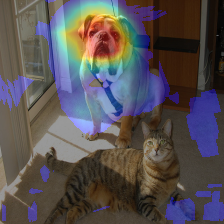
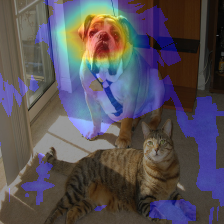
added explanatory comments to lib_aug_gradcam.py and adjusted parameters to reproduce the images

diff --git a/lib_aug_gradcam.py b/lib_aug_gradcam.py
@@ -12,7 +12,7 @@ sess = tf.InteractiveSession(graph=tf.Graph())
 
 
 def get_competition_dict():
-    file_path = "ILSVRC2015_devkit/data/map_clsloc.txt"
+    file_path = "dicts/map_clsloc.txt"
     d = dict()
     with open(file_path, 'r') as file:
         for i_line, line in enumerate(file.readlines()):
@@ -26,7 +26,7 @@ def get_competition_dict():
 
 
 def get_vgg_dict():
-    file_path = "synset.txt"
+    file_path = "dicts/synset.txt"
     d = dict()
     with open(file_path, 'r') as file:
         for i_line, line in enumerate(file.readlines()):
@@ -48,6 +48,15 @@ def resize_img(img, target_imsz=(224, 224), order=1):
 
 
 def crop_and_resize_img(img, target_imsz=(224, 224)):
+    """ Crop and resize `img` to match `target_imsz`.
+
+    Images are cropped to be square images.
+
+    :param img: the input image
+    :param target_imsz: the target image size
+    :return img: the resized image
+    :return crop: the applied crop
+    """
     img_new = img
     if len(img.shape) == 2:
         img_new = img_new[:, :, np.newaxis]
@@ -113,6 +122,12 @@ def pad_and_resize_cam(cam, target_imsz, crop, order, mode="zero"):
 
 
 def get_rectangle(bbox, color='r'):
+    """ Get a rectangle patch from `bbox` for plotting purposes.
+
+    :param bbox: input bounding box
+    :param color: rectangle color
+    :return rect: a colored rectangle patch
+    """
     # Create a Rectangle patch
     (xmin, xmax, ymin, ymax) = bbox
     rect = patches.Rectangle((xmin, ymin), xmax - xmin, ymax - ymin, linewidth=2, edgecolor=color, facecolor="none")
@@ -124,6 +139,11 @@ def order_bbox_from_sk(bbox):
 
 
 def get_bbox_from_gt(gt_root):
+    """ Get the all the supervised bounding boxes (ground truth) having `gt_root` as root folder.
+
+    :param gt_root: root folder for the ground truth bounding boxes
+    :return all_objs: all supervised bounding boxes
+    """
     all_objs = dict()
 
     all_objs_elem = gt_root.findall("./object")
@@ -145,6 +165,14 @@ def get_bbox_from_gt(gt_root):
 
 
 def get_bbox_from_cam(cam_full, thresh_rel=0.15):
+    """ Compute the bounding box from `cam_full` according to `thresh_rel`.
+
+    Fit a box around `cam_full` where its values are greater than the 15% of its maximum.
+
+    :param cam_full: the input CAM
+    :param thresh_rel: the threshold values (same as in https://arxiv.org/abs/1610.02391)
+    :return: the bounding box for `cam_full`
+    """
     thresh = thresh_rel * np.max(cam_full)
     mask = cam_full > thresh
 
@@ -163,6 +191,12 @@ def get_bbox_from_cam(cam_full, thresh_rel=0.15):
     return order_bbox_from_sk(bbox)
 
 def bb_intersection_over_union(boxA, boxB):
+    """ Compute the intersection over union (IOU) metrics between two bounding boxes.
+
+    :param boxA: bounding box 1
+    :param boxB: bounding box 2
+    :return iou: the intersection over union of `boxA` and `boxB`
+    """
     # determine the (x, y)-coordinates of the intersection rectangle
     xA = max(boxA[0], boxB[0])
     yA = max(boxA[2], boxB[2])
@@ -211,8 +245,8 @@ class GradCamModel:
             tns_input = None
             ValueError("Model {} not supported".format(model_name))
 
+        # input index for the target class
         tns_index = tf.placeholder("int32", [None])
-        # input index
         self.tns_index = tns_index
 
         model.build(tns_input)
@@ -244,6 +278,11 @@ class GradCamModel:
         self.tns_top_k_cam = tns_top_k_cam
 
     def preprocess_input(self, image_batch):
+        """ Pre-process `image_batch` to meet the specifications of the loaded model.
+
+        :param image_batch: the input images
+        :return all_img_pre: the pre-processed input images
+        """
         if self.model_name == "vgg16":
             all_img_pre = [keras.applications.vgg16.preprocess_input(image.copy())[np.newaxis, :, :, :] for image in image_batch]
         elif self.model_name == "resnet50":
@@ -253,12 +292,23 @@ class GradCamModel:
         return all_img_pre
 
     def compute_full_prob(self, image_batch):
+        """ Classify the images and return the probability values over the considered label space.
+
+        :param image_batch: the input images
+        :return full_prob: the probailities values for the predicted classes
+        """
         all_img_pre = self.preprocess_input(image_batch)
         img_batch = np.concatenate(all_img_pre, 0)
         full_prob = sess.run(self.tns_full_prob, feed_dict={self.tns_input: img_batch})
         return full_prob
 
     def compute_cam(self, image_batch, index_batch):
+        """ Compute the CAMs for `image_batch` w.r.t. to the class referenced by `index_batch`
+
+        :param image_batch: the input images for the CAM algorithm
+        :param index_batch: the indicies corresponding to the desired class
+        :return cam: the CAMs
+        """
         all_img_pre = self.preprocess_input(image_batch)
         if len(all_img_pre) == 1:
             img_batch = all_img_pre[0]
@@ -270,6 +320,13 @@ class GradCamModel:
         return cam.squeeze()
 
     def compute_top_k_cams(self, image_batch):
+        """ Compute the CAMs corresponding to the `top_k` predicted classes.
+
+        :param image_batch: input images
+        :return top_k_cams: the CAMs images for the first k classes
+        :return top_k_preds: the indices of the first k predicted classes
+        :return top_k_probs: the probabilities values for the first k predicted classes
+        """
         all_img_pre = self.preprocess_input(image_batch)
         all_img_pre = np.concatenate(all_img_pre, 0)
 
@@ -300,6 +357,13 @@ class Augmenter:
         self.tns_inverse_img_batch = tf.contrib.image.rotate(tns_shift_img_batch, self.tns_angle, interpolation="BILINEAR")
 
     def direct_augment(self, img, angles, shift):
+        """ Apply rotation and shift to `img` according to the values in `angles` and `shift`.
+
+        :param img: the input image
+        :param angles: the magnitude of the rotation in radians
+        :param shift: the magnitude of the shift
+        :return img_aug: the transformed image
+        """
         feed_dict = {self.tns_input_img: img[np.newaxis, :, :, :],
                      self.tns_angle: angles,
                      self.tns_shift: shift,
@@ -309,6 +373,13 @@ class Augmenter:
         return img_aug
 
     def inverse_augment(self, img_batch, angles, shift):
+        """ Apply the inverse rotation and shift to `img_batch` according to the values in `angles` and `shift`.
+
+        :param img_batch: a set of images to be anti-transformed
+        :param angles: the magnitude of the rotatation in radians
+        :param shift: the magnitude of the shift
+        :return img_aug: the anti-transformed image
+        """
         feed_dict = {self.tns_img_batch: img_batch,
                      self.tns_angle: -np.array(angles),
                      self.tns_shift: -np.array(shift),
@@ -320,36 +391,48 @@ class Augmenter:
 
 class Superresolution:
 
-    def __init__(self, augmenter, learning_rate=0.001, camsz=(14,14)):
+    def __init__(self, augmenter, learning_rate=0.001, camsz=(14, 14)):
         num_aug = augmenter.num_aug
         self.augmenter = augmenter
         augcamsz = self.augmenter.augcamsz
 
-        # tensors for loss functional
+        # placeholder tensor for the batch of CAMs resulting from augmentation
         self.tns_cam_aug= tf.placeholder("float", [num_aug, camsz[0], camsz[1], 1])
+        # placeholder tensors for the regularization coefficients
         self.tns_lmbda_eng = tf.placeholder("float", [1], name="lambda_eng")
         self.tns_lmbda_tv = tf.placeholder("float", [1], name="lambda_tv")
+        # variable tensor for the target upsampled CAM
         self.tns_cam_full = tf.Variable(tf.zeros([1, augcamsz[0], augcamsz[1], 1]), name="cam_full")
-
-        tns_rot_cam = tf.contrib.image.rotate(tf.tile(self.tns_cam_full, [num_aug, 1, 1, 1]), augmenter.tns_angle, interpolation="BILINEAR")
+        # augmentation parameters tensors
+        tns_rot_cam = tf.contrib.image.rotate(tf.tile(self.tns_cam_full, [num_aug, 1, 1, 1]),
+                                              augmenter.tns_angle,
+                                              interpolation="BILINEAR")
         tns_aug = tf.contrib.image.translate(tns_rot_cam, augmenter.tns_shift, interpolation="BILINEAR")
+        # tensor for the downsampling operator
         tns_Dv = tf.expand_dims(tf.image.resize(tns_aug, camsz, name="downsampling"), 0)
+        # tensor for the gradient term
         tns_gradv = tf.image.image_gradients(self.tns_cam_full)
 
+        # tensors for the functional terms
         tns_df = tf.reduce_sum(tf.squared_difference(tns_Dv, self.tns_cam_aug), name="data_fidelity")
         tns_tv = tf.reduce_sum(tf.add(tf.abs(tns_gradv[0]), tf.abs(tns_gradv[1])))
         tns_norm = tf.reduce_sum(tf.square(self.tns_cam_full))
+
         # loss definition
         self.tns_functional_tv = tf.add(tns_df, tf.scalar_mul(self.tns_lmbda_tv[0], tns_tv), name="loss_en_grad")
         self.tns_functional_mixed = tf.add(tf.scalar_mul(self.tns_lmbda_eng[0], tns_norm), self.tns_functional_tv)
 
         self.optimizer = tf.train.AdamOptimizer(learning_rate)
         self.minimizer_mixed = self.optimizer.minimize(self.tns_functional_mixed)
-        self.tns_super_single = tf.image.resize(self.tns_cam_aug[0], augcamsz)
+        self.tns_super_single = tf.image.resize(self.tns_cam_aug[0], augcamsz) # first CAM is the non-augmented one
 
         tns_img_batch = tf.image.resize(self.tns_cam_aug, augcamsz)
-        tns_shift_img_batch=tf.contrib.image.translate(tns_img_batch, self.augmenter.tns_shift, interpolation="BILINEAR")
-        self.tns_inverse_img_batch = tf.contrib.image.rotate(tns_shift_img_batch, self.augmenter.tns_angle, interpolation="BILINEAR")
+        tns_shift_img_batch = tf.contrib.image.translate(tns_img_batch,
+                                                         self.augmenter.tns_shift,
+                                                         interpolation="BILINEAR")
+        self.tns_inverse_img_batch = tf.contrib.image.rotate(tns_shift_img_batch,
+                                                             self.augmenter.tns_angle,
+                                                             interpolation="BILINEAR")
         self.tns_max_aggr = tf.reduce_max(self.tns_inverse_img_batch, axis=0)
         self.tns_avg_aggr = tf.reduce_mean(self.tns_inverse_img_batch, axis=0)
 
@@ -362,6 +445,16 @@ class Superresolution:
 
 
     def super_mixed(self, cams, angles, shift, lmbda_tv, lmbda_eng, niter=200):
+        """ Compute the CAM solving the super resolution problem.
+
+        :param cams: batch of CAMs
+        :param angles: rotation values used to compute each CAM in `cams`
+        :param shift: shift values used to compute each CAM in `cams`
+        :param lmbda_tv: coefficient promoting the total variation
+        :param lmbda_eng: coefficient promoting the energy of the gradient
+        :param niter: number of iterations of the gradient descent
+        :return cam_full_aug: the upsampled CAM resluting from super resolution aggregation
+        """
         feed_dict = {self.tns_cam_aug: cams[:, :, :],
                      self.augmenter.tns_angle: angles,
                      self.augmenter.tns_shift: shift,
@@ -378,10 +471,26 @@ class Superresolution:
         return cam_full_aug
 
     def super_single(self, cams):
+        """ Compute the upsampled CAM with no aggregation.
+
+        The first CAM in `cams` is the CAM with no augmentation
+
+        :param cams: batch of CAMs
+        :return cam_full: the upsampled CAM
+        """
         cam_full = sess.run(self.tns_super_single, feed_dict={self.tns_cam_aug: cams})
         return cam_full
 
     def super_max(self, cams, angles, shift):
+        """ Aggregation of `cams` using the max operator.
+
+        CAMs are registered here, applying the anti-transformation using `angles` and `shift`
+
+        :param cams: batch of CAMs
+        :param angles: rotation values used to compute each CAM in `cams`
+        :param shift: shift values used to compute each CAM in `cams`
+        :return cam_full_aug: the upsampled CAM resulting from applying the max operator to the registered CAMs
+        """
         feed_dict = {self.tns_cam_aug: cams[:, :, :],
                      self.augmenter.tns_angle: -angles,
                      self.augmenter.tns_shift: -shift
@@ -391,6 +500,15 @@ class Superresolution:
         return cam_full_aug
 
     def super_avg(self, cams, angles, shift):
+        """ Aggregation of `cams` using the mean operator.
+
+        CAMs are registered here, applying the anti-transformation using `angles` and `shift`
+
+        :param cams: batch of CAMs
+        :param angles: rotation values used to compute each CAM in `cams`
+        :param shift: shift values used to compute each CAM in `cams`
+        :return cam_full_aug: the upsampled CAM resulting from averaging the registered CAMs
+        """
         feed_dict = {self.tns_cam_aug: cams[:, :, :],
                      self.augmenter.tns_angle: -angles,
                      self.augmenter.tns_shift: -shift
@@ -400,7 +518,7 @@ class Superresolution:
         return cam_full_aug
 
 
-    def overlay(self, cam, img, th=28, name=None):
+    def overlay(self, cam, img, th=27, name=None):
         """ Overlay `cam` to `img`.
 
         The overlay of `cam` to `img` is done cutting away regions in `cam` below `th` for better visualization.
@@ -409,7 +527,7 @@ class Superresolution:
         :param img: the test image
         :param th: threshold for regions cut away from `cam`
         :param name: optional output filename
-        :return: the heatmap superimposed to `img`
+        :return o: the heatmap superimposed to `img`
         """
         # rotate color channels according to cv2
         background = cv2.cvtColor(img, cv2.COLOR_RGB2BGR)
